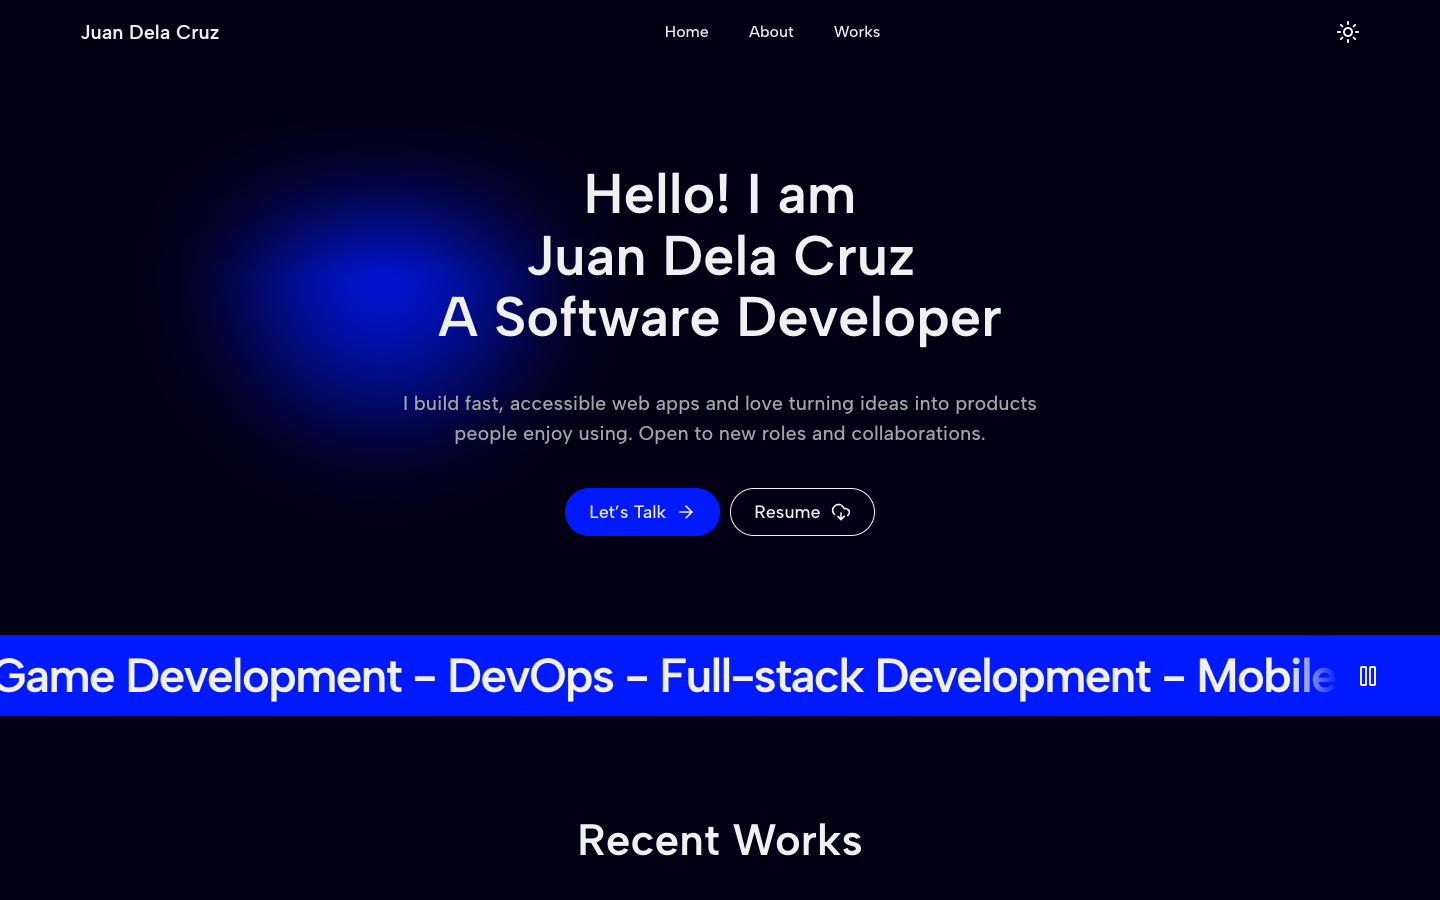
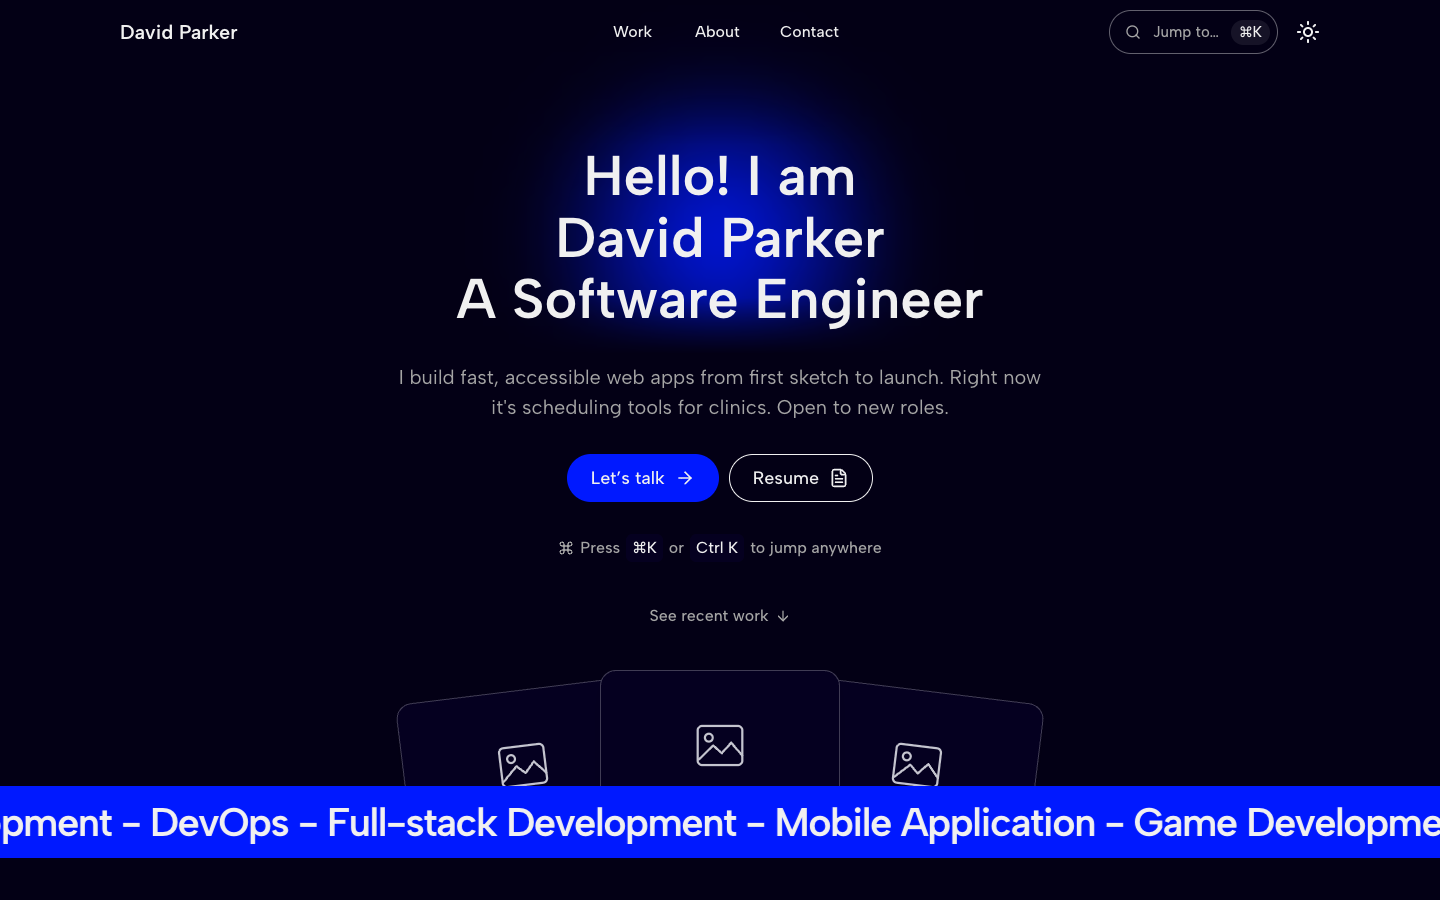
docs: update the README and screenshots (#11)

diff --git a/README.md b/README.md
@@ -4,10 +4,10 @@ A clean, accessible developer portfolio you make your own by editing one file. I
 
 <picture>
   <source media="(prefers-color-scheme: dark)" srcset="docs/screenshot-dark.png" />
-  <img alt="Plinth portfolio template: hero section with name, role, intro, Let's Talk and Resume buttons, and a scrolling skills band" src="docs/screenshot-light.png" />
+  <img alt="Plinth portfolio template: hero section with name, role, intro, Let's talk and Resume buttons, a ⌘K shortcut hint, three project previews fanned at the bottom and a scrolling skills band" src="docs/screenshot-light.png" />
 </picture>
 
-**Live demo:** _coming soon_ <!-- Replace with your deployment URL, e.g. https://plinth-demo.vercel.app -->
+**Live demo:** [plinthfolio.vercel.app](https://plinthfolio.vercel.app)
 
 [![Deploy with Vercel](https://vercel.com/button)](https://vercel.com/new/clone?repository-url=https%3A%2F%2Fgithub.com%2Fleigharriane%2FPlinth)
 
@@ -17,17 +17,17 @@ A clean, accessible developer portfolio you make your own by editing one file. I
 | --------------------- | ----------------------------------------------------------------------------------------------------------------------------------------------------------------------------------------------------------------------------------------- |
 | One config file       | Every word, link and image on the page comes from `site.config.ts`. It's fully typed, so your editor tells you when something's missing.                                                                                                  |
 | Light and dark themes | They follow the visitor's system setting, and there's a toggle too.                                                                                                                                                                       |
-| Sections              | Hero, skills marquee, Recent Works carousel, about, tech stack marquee, experience tabs, a contact call to action and a footer.                                                                                                           |
+| Sections              | A hero with a peek at your first three projects, a skills marquee, the Recent Work carousel, about with your GitHub activity, a tech stack marquee, experience tabs, a contact call to action and a footer with your local time.          |
 | Case studies          | Any project can carry a `caseStudy`: role, timeline, stack, outcomes and the story. It gets a Read case study link on the card and a static page with its own social image.                                                               |
 | Resume page           | `/resume` is built from your config, so it never drifts from the site. Print it or save it as a PDF from the print dialog.                                                                                                                |
-| Command palette       | ⌘K or Ctrl+K (or the search button in the nav) jumps to a section, opens the resume, copies your email, switches theme or opens a profile.                                                                                                |
+| Command palette       | ⌘K or Ctrl+K (or the search button in the nav) jumps to a section or project, opens the resume, copies your email, switches theme or opens a profile. It doubles as a small terminal: type `help` in it to see the commands.              |
 | Accessible            | Semantic landmarks, visible focus, a carousel and tabs that work from the keyboard, 44px touch targets, WCAG AA contrast in both themes, and a pause button on the marquees. Motion stops completely if a visitor prefers reduced motion. |
-| Fast                  | It's fully static. Lighthouse scores 98–100 on mobile and 100 on desktop for Performance, Accessibility, Best Practices and SEO.                                                                                                          |
-| Shareable             | Page metadata, a generated social preview image and favicon, `sitemap.xml` and `robots.txt`, all built from your config.                                                                                                                  |
+| Fast                  | Every page is prerendered, and the home page refreshes once a day to keep the GitHub cards current. Lighthouse scores 98–100 on mobile and 100 on desktop for Performance, Accessibility, Best Practices and SEO.                         |
+| Shareable             | Page metadata, a generated social preview image and favicon, `sitemap.xml`, `robots.txt` and an `llms.txt` summary for AI assistants, all built from your config.                                                                         |
 
 ## Customize in 3 steps
 
-1. **Get your own copy.** Click **Use this template** on GitHub (or the Deploy button above, which copies the repo for you). Then clone it and start the dev server:
+1. **Get your own copy.** Click **Use this template** on GitHub if it's turned on (see the last section), or the Deploy button above, which copies the repo for you. Then clone it and start the dev server:
 
    ```bash
    git clone https://github.com/<you>/<your-repo>.git
@@ -41,7 +41,7 @@ A clean, accessible developer portfolio you make your own by editing one file. I
    | Path                      | What goes there                                                     |
    | ------------------------- | ------------------------------------------------------------------- |
    | `public/resume.pdf`       | Only if you'd rather link your own file than use the built-in page. |
-   | `public/images/projects/` | Project thumbnails. Any aspect ratio works, but 4:3 fits best.      |
+   | `public/images/projects/` | Project thumbnails. 16:10 fits best, e.g. 1280×800.                 |
    | `public/images/logos/`    | Square company logos.                                               |
 
 3. **Deploy.** Push to GitHub and import the repo on [Vercel](https://vercel.com/new). You don't have to configure anything: Vercel hands the site its URL for links and social previews. Using a custom domain? Set `url` in `site.config.ts`.
@@ -50,22 +50,27 @@ A clean, accessible developer portfolio you make your own by editing one file. I
 
 Everything lives in [`site.config.ts`](site.config.ts). Each field is documented in the types in [`lib/config.ts`](lib/config.ts), so you can hover a field in your editor to see what it does.
 
-| Field                 | What it does                                                                                                                                 |
-| --------------------- | -------------------------------------------------------------------------------------------------------------------------------------------- |
-| `name`, `role`        | Your name and job title. They show up across the page, metadata and social image.                                                            |
-| `url`                 | Optional. Your public URL. Leave it out and Vercel's production URL is used.                                                                 |
-| `email`               | Where the **Let's Talk** buttons send mail.                                                                                                  |
-| `resume`              | `"/resume"` for the page built from this config, a file in `public/`, or `null`.                                                             |
-| `hero`                | The greeting, tagline and intro paragraph.                                                                                                   |
-| `skills`, `techStack` | The two scrolling bands.                                                                                                                     |
-| `projects`            | Carousel cards: title, description, category, year, tags, image and links. Add a `caseStudy` to give a card its own page at `/works/<slug>`. |
-| `about`               | Your paragraphs, the panel's label and headline, and an optional year.                                                                       |
-| `experience`          | One tab per job: company, role, logo, dates and description paragraphs.                                                                      |
-| `cta`                 | The heading and text above the footer.                                                                                                       |
-| `socials`             | Icon links. The `SocialPlatform` type lists every supported platform.                                                                        |
-| `seo.description`     | Optional. The description for search and social previews. Defaults to `hero.intro`.                                                          |
+| Field                 | What it does                                                                                                                                                                                                                                                                         |
+| --------------------- | ------------------------------------------------------------------------------------------------------------------------------------------------------------------------------------------------------------------------------------------------------------------------------------ |
+| `name`, `role`        | Your name and job title. They show up across the page, metadata and social image.                                                                                                                                                                                                    |
+| `url`                 | Optional. Your public URL. Leave it out and Vercel's production URL is used.                                                                                                                                                                                                         |
+| `email`               | Where the **Let's talk** buttons send mail.                                                                                                                                                                                                                                          |
+| `location`            | Optional. Where you're based, e.g. `"Manila, Philippines"`. The palette's terminal shows it in `whoami` and `date`.                                                                                                                                                                  |
+| `timezone`            | Optional. Your time zone's IANA name, e.g. `"Asia/Manila"`. The footer shows your local time, and so does the terminal's `date`.                                                                                                                                                     |
+| `resume`              | `"/resume"` for the page built from this config, a file in `public/`, or `null`.                                                                                                                                                                                                     |
+| `hero`                | The greeting, tagline and intro paragraph, plus whether the glow follows the mouse and whether your first three project images fan out at the bottom.                                                                                                                                |
+| `skills`, `techStack` | The two scrolling bands.                                                                                                                                                                                                                                                             |
+| `projects`            | Carousel cards: title, description, category, year, tags, image and links. Add a `caseStudy` to give a card its own page at `/works/<slug>`.                                                                                                                                         |
+| `about`               | Your paragraphs, label, headline and an optional year. Your GitHub activity shows under them, from the GitHub link in `socials`.                                                                                                                                                     |
+| `experience`          | One tab per job: company, role, logo, dates and description paragraphs.                                                                                                                                                                                                              |
+| `cta`                 | The heading and text above the footer.                                                                                                                                                                                                                                               |
+| `socials`             | Icon links. The `SocialPlatform` type lists every supported platform. A GitHub link with your username turns on the GitHub row in about.                                                                                                                                             |
+| `terminal`            | Optional. The palette's terminal: your `status` line, the day you `launched`, a `prompt`, your own `jokes`, built-ins to `disable`, and `commands` of your own that print text, open a link or run a built-in. `whatsnew` reads `CHANGELOG.md`. Set `enabled: false` to turn it off. |
+| `seo.description`     | Optional. The description for search and social previews. Defaults to `hero.intro`.                                                                                                                                                                                                  |
 
 Images can be paths under `public/` or full URLs. Remote images and SVGs are served as-is, so you don't need to touch `next.config.ts`.
+
+The GitHub row in the about section needs no token. It refreshes once a day, and if GitHub can't be reached it hides itself. If your host shares an IP that keeps hitting GitHub's rate limit, you can set an optional `GITHUB_TOKEN` environment variable.
 
 ### Colors and fonts
 
@@ -75,15 +80,22 @@ The palette and type scale are CSS variables at the top of [`app/globals.css`](a
 
 You'll need Node.js 20.9 or later.
 
-| Command                | What it does                              |
-| ---------------------- | ----------------------------------------- |
-| `npm run dev`          | Starts the dev server on localhost:3000.  |
-| `npm run build`        | Builds for production.                    |
-| `npm run start`        | Serves the production build.              |
-| `npm run lint`         | Runs ESLint.                              |
-| `npm run typecheck`    | Type-checks with TypeScript (no emit).    |
-| `npm run format`       | Formats everything with Prettier.         |
-| `npm run format:check` | Checks formatting without changing files. |
+| Command                | What it does                                                                                             |
+| ---------------------- | -------------------------------------------------------------------------------------------------------- |
+| `npm run dev`          | Starts the dev server on localhost:3000.                                                                 |
+| `npm run build`        | Builds for production.                                                                                   |
+| `npm run start`        | Serves the production build.                                                                             |
+| `npm run lint`         | Runs ESLint.                                                                                             |
+| `npm run typecheck`    | Type-checks with TypeScript (no emit).                                                                   |
+| `npm run format`       | Formats everything with Prettier.                                                                        |
+| `npm run format:check` | Checks formatting without changing files.                                                                |
+| `npm run lighthouse`   | Runs Lighthouse on every page of the last build and checks it against the budgets in `lighthouserc.cjs`. |
+
+### Checks and releases
+
+Two GitHub Actions run on their own. On every pull request, [Lighthouse](.github/workflows/lighthouse.yml) builds the site, checks every page against the score and size budgets in `lighthouserc.cjs`, and fails the PR if one slips. The HTML reports are attached to the run.
+
+On every merge into `main`, [release-please](.github/workflows/release-please.yml) keeps a release PR open with the next version and its notes. Merge that PR when you're ready and it bumps the version, updates `CHANGELOG.md` and publishes the GitHub release. It writes the notes from your commit titles, so start them with `feat:`, `fix:`, `docs:` and so on. Only features, fixes, performance and docs make it into the notes. The terminal's `whatsnew` command reads that same changelog.
 
 ## For maintainers: make this a template repository
 
